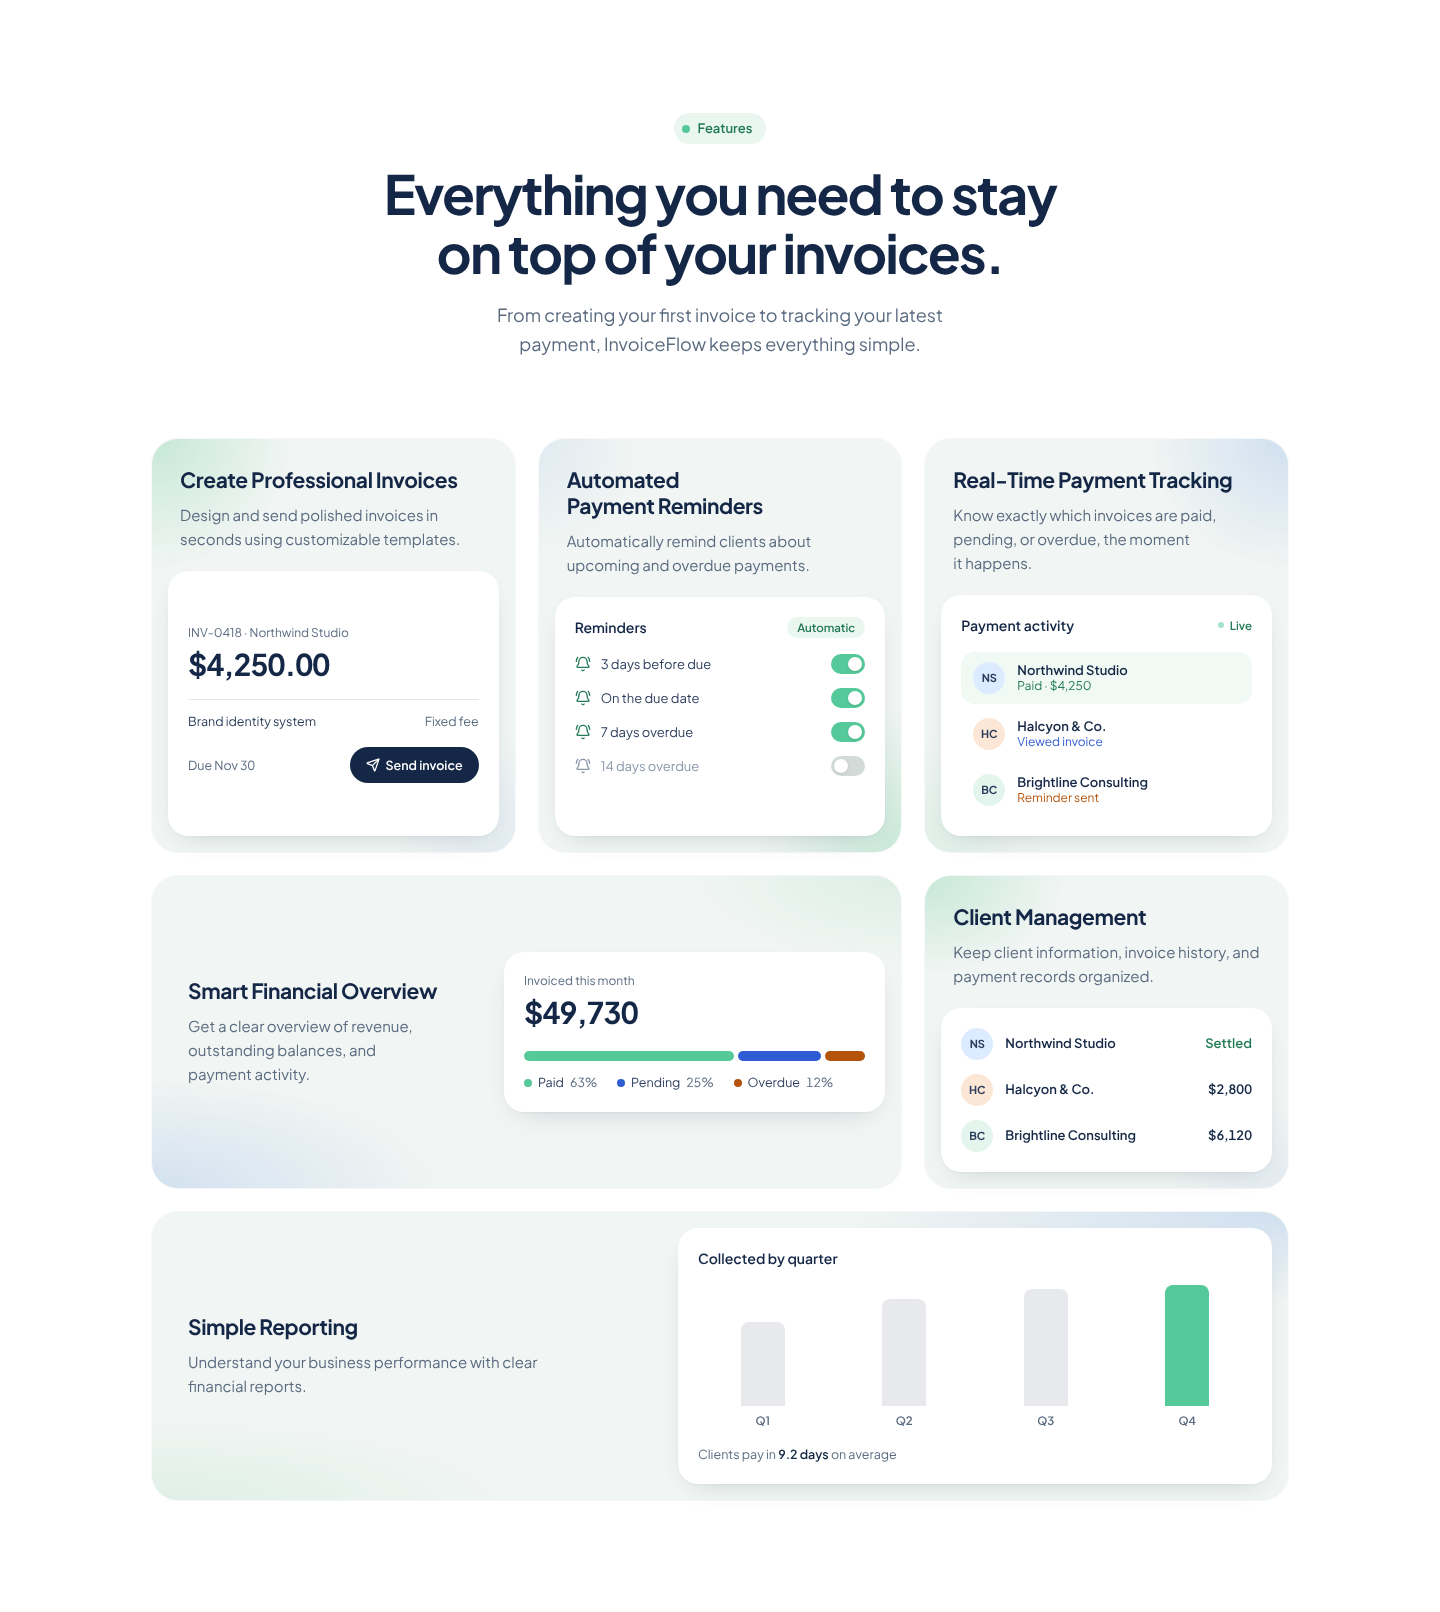
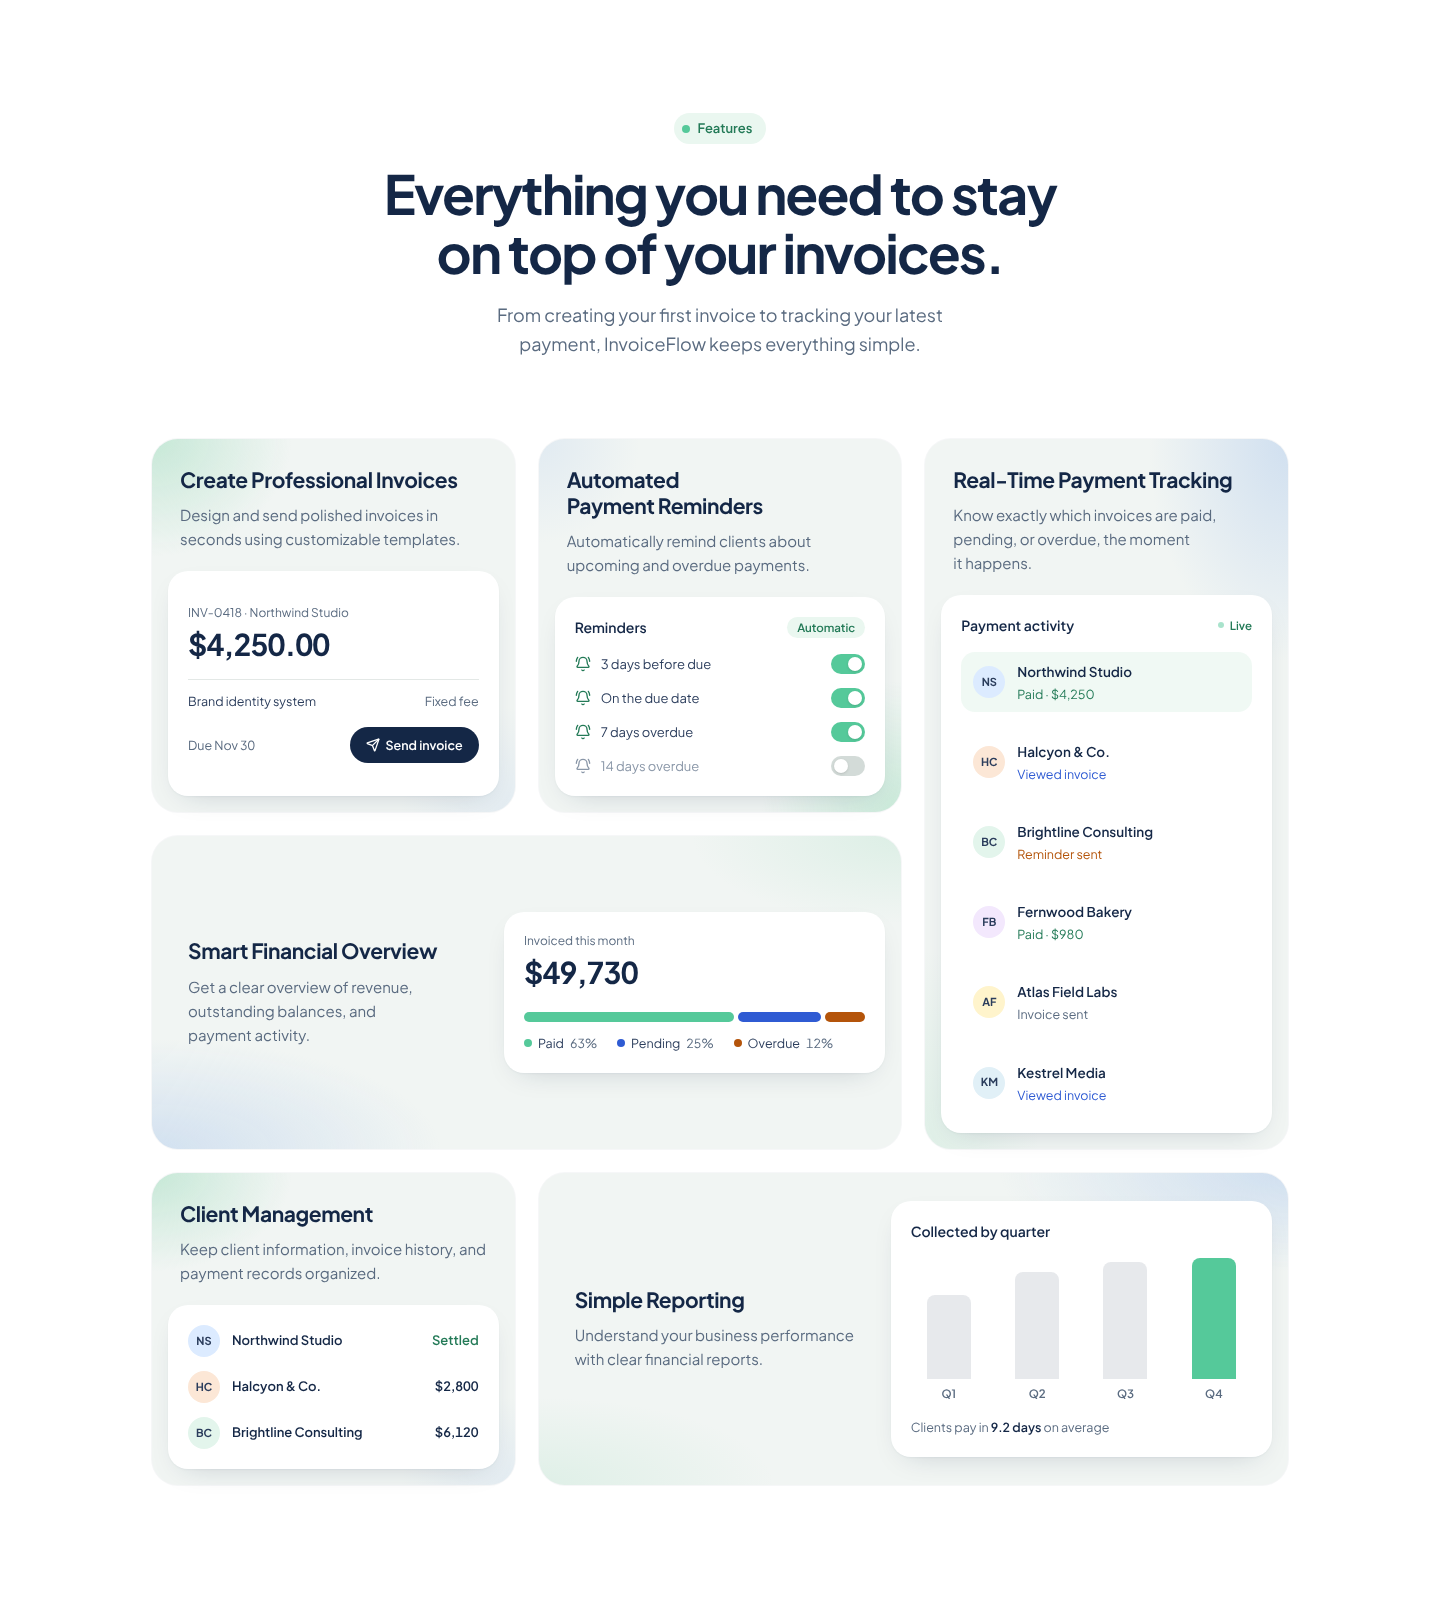
Features: equal-height overview and reporting, fuller activity feed
Payment tracking spans two rows again. Rows 2 and 3 share one height
(grid-rows auto 1fr 1fr), so the overview matches reporting and the
tracking card ends level with it. The feed shows six events spread
evenly, with more room between client name and status.

Claude-Session: https://claude.ai/code/session_01BMwnAZUSDMBHdEEFwNrE9Z

diff --git a/src/sections/Features.tsx b/src/sections/Features.tsx
@@ -72,6 +72,9 @@ function ActivityPanel() {
     { inv: invoices[0], status: 'Paid · $4,250', tone: 'text-green-ink' },
     { inv: invoices[1], status: 'Viewed invoice', tone: 'text-pending' },
     { inv: invoices[2], status: 'Reminder sent', tone: 'text-overdue' },
+    { inv: invoices[3], status: 'Paid · $980', tone: 'text-green-ink' },
+    { inv: invoices[4], status: 'Invoice sent', tone: 'text-muted' },
+    { inv: invoices[5], status: 'Viewed invoice', tone: 'text-pending' },
   ];
   return (
     <div className="flex flex-1 flex-col">
@@ -84,13 +87,13 @@ function ActivityPanel() {
           </span>
         }
       />
-      <ul className="flex flex-col gap-1">
+      <ul className="flex flex-1 flex-col justify-between gap-1">
         {feed.map((f, i) => (
           <li key={i} className={`flex items-center gap-3 rounded-[14px] px-3 py-2.5 ${i === 0 ? 'bg-green-wash/70' : ''}`}>
             <ClientAvatar invoice={f.inv} size="md" />
-            <span className="min-w-0 leading-tight">
-              <span className="block truncate text-[13px] font-semibold text-ink">{f.inv.client}</span>
-              <span className={`block text-[12px] ${f.tone}`}>{f.status}</span>
+            <span className="min-w-0">
+              <span className="block truncate text-[13.5px] leading-5 font-semibold text-ink">{f.inv.client}</span>
+              <span className={`mt-1 block text-[12.5px] leading-4 ${f.tone}`}>{f.status}</span>
             </span>
           </li>
         ))}
@@ -189,12 +192,12 @@ export function Features() {
         </Reveal>
 
         {/*
-          Bento grid, one 24px gap everywhere. Desktop: three cards on top, a
-          wide overview beside clients, then reporting across the full width.
-          No card spans rows, so no panel is stretched past its content.
-          Tablet: two columns. Mobile: one.
+          Bento grid, one 24px gap everywhere. Desktop: three cards on top with
+          payment tracking running two rows tall; rows 2 and 3 share one height
+          (1fr each), so the overview matches reporting and the tracking card
+          ends level with the overview. Tablet: two columns. Mobile: one.
         */}
-        <div className="mt-14 grid gap-6 sm:mt-20 md:grid-cols-2 lg:grid-cols-3">
+        <div className="mt-14 grid gap-6 sm:mt-20 md:grid-cols-2 lg:grid-cols-3 lg:grid-rows-[auto_1fr_1fr]">
           <FeatureCard
             className="lg:col-start-1 lg:row-start-1"
             glow="top-left"
@@ -213,7 +216,7 @@ export function Features() {
             <RemindersPanel />
           </FeatureCard>
           <FeatureCard
-            className="lg:col-start-3 lg:row-start-1"
+            className="md:col-span-2 lg:col-span-1 lg:col-start-3 lg:row-span-2 lg:row-start-1"
             delay={160}
             glow="top-right"
             title="Real-Time Payment Tracking"
@@ -221,7 +224,7 @@ export function Features() {
           >
             <ActivityPanel />
           </FeatureCard>
-          <FeatureCard className="lg:col-start-3 lg:row-start-2" glow="top-left" title="Client Management" body="Keep client information, invoice history, and payment records organized.">
+          <FeatureCard className="lg:col-start-1 lg:row-start-3" glow="top-left" title="Client Management" body="Keep client information, invoice history, and payment records organized.">
             <ClientsPanel />
           </FeatureCard>
           <FeatureCard
@@ -234,7 +237,7 @@ export function Features() {
             <OverviewPanel />
           </FeatureCard>
           <FeatureCard
-            className="md:col-span-2 lg:col-span-3 lg:col-start-1 lg:row-start-3"
+            className="lg:col-span-2 lg:col-start-2 lg:row-start-3"
             layout="split"
             delay={80}
             glow="top-right"
